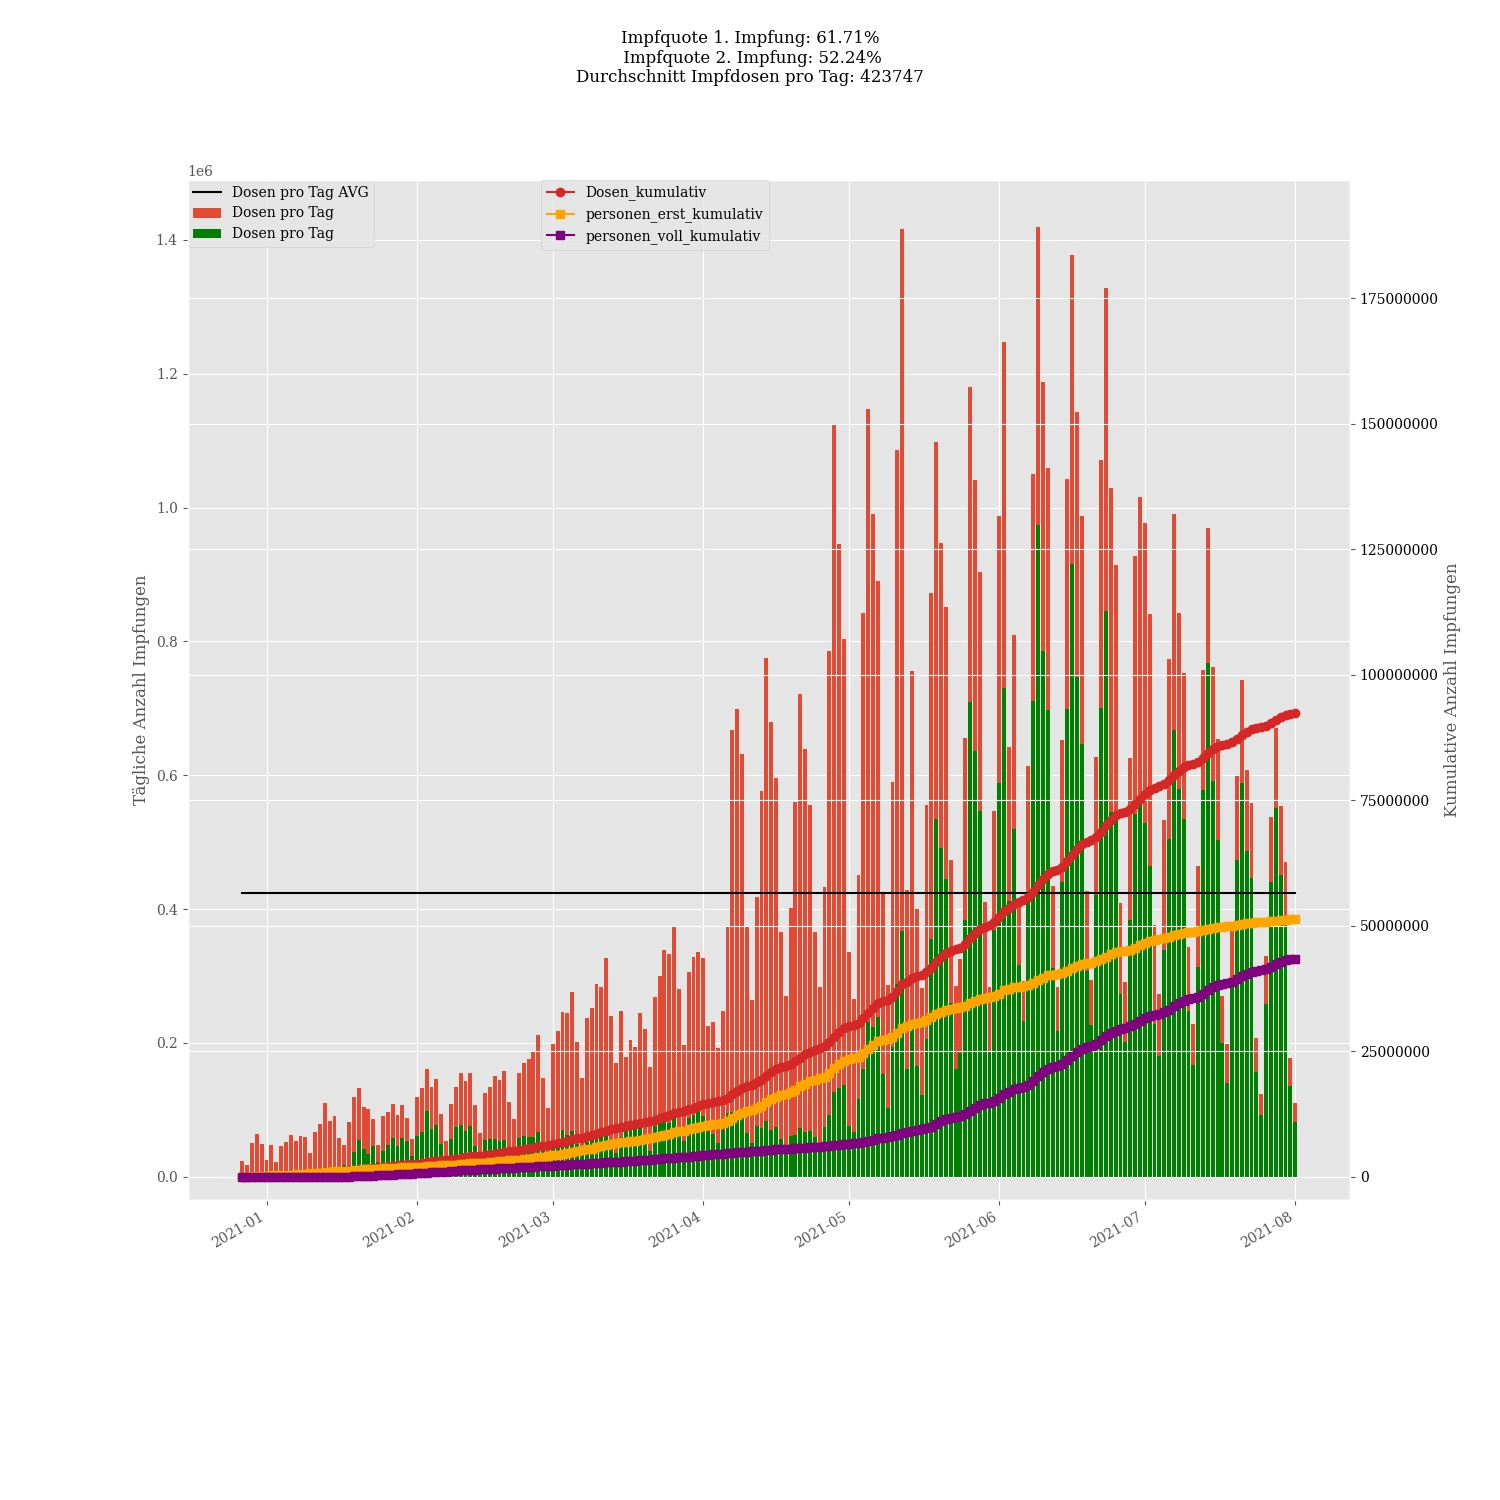
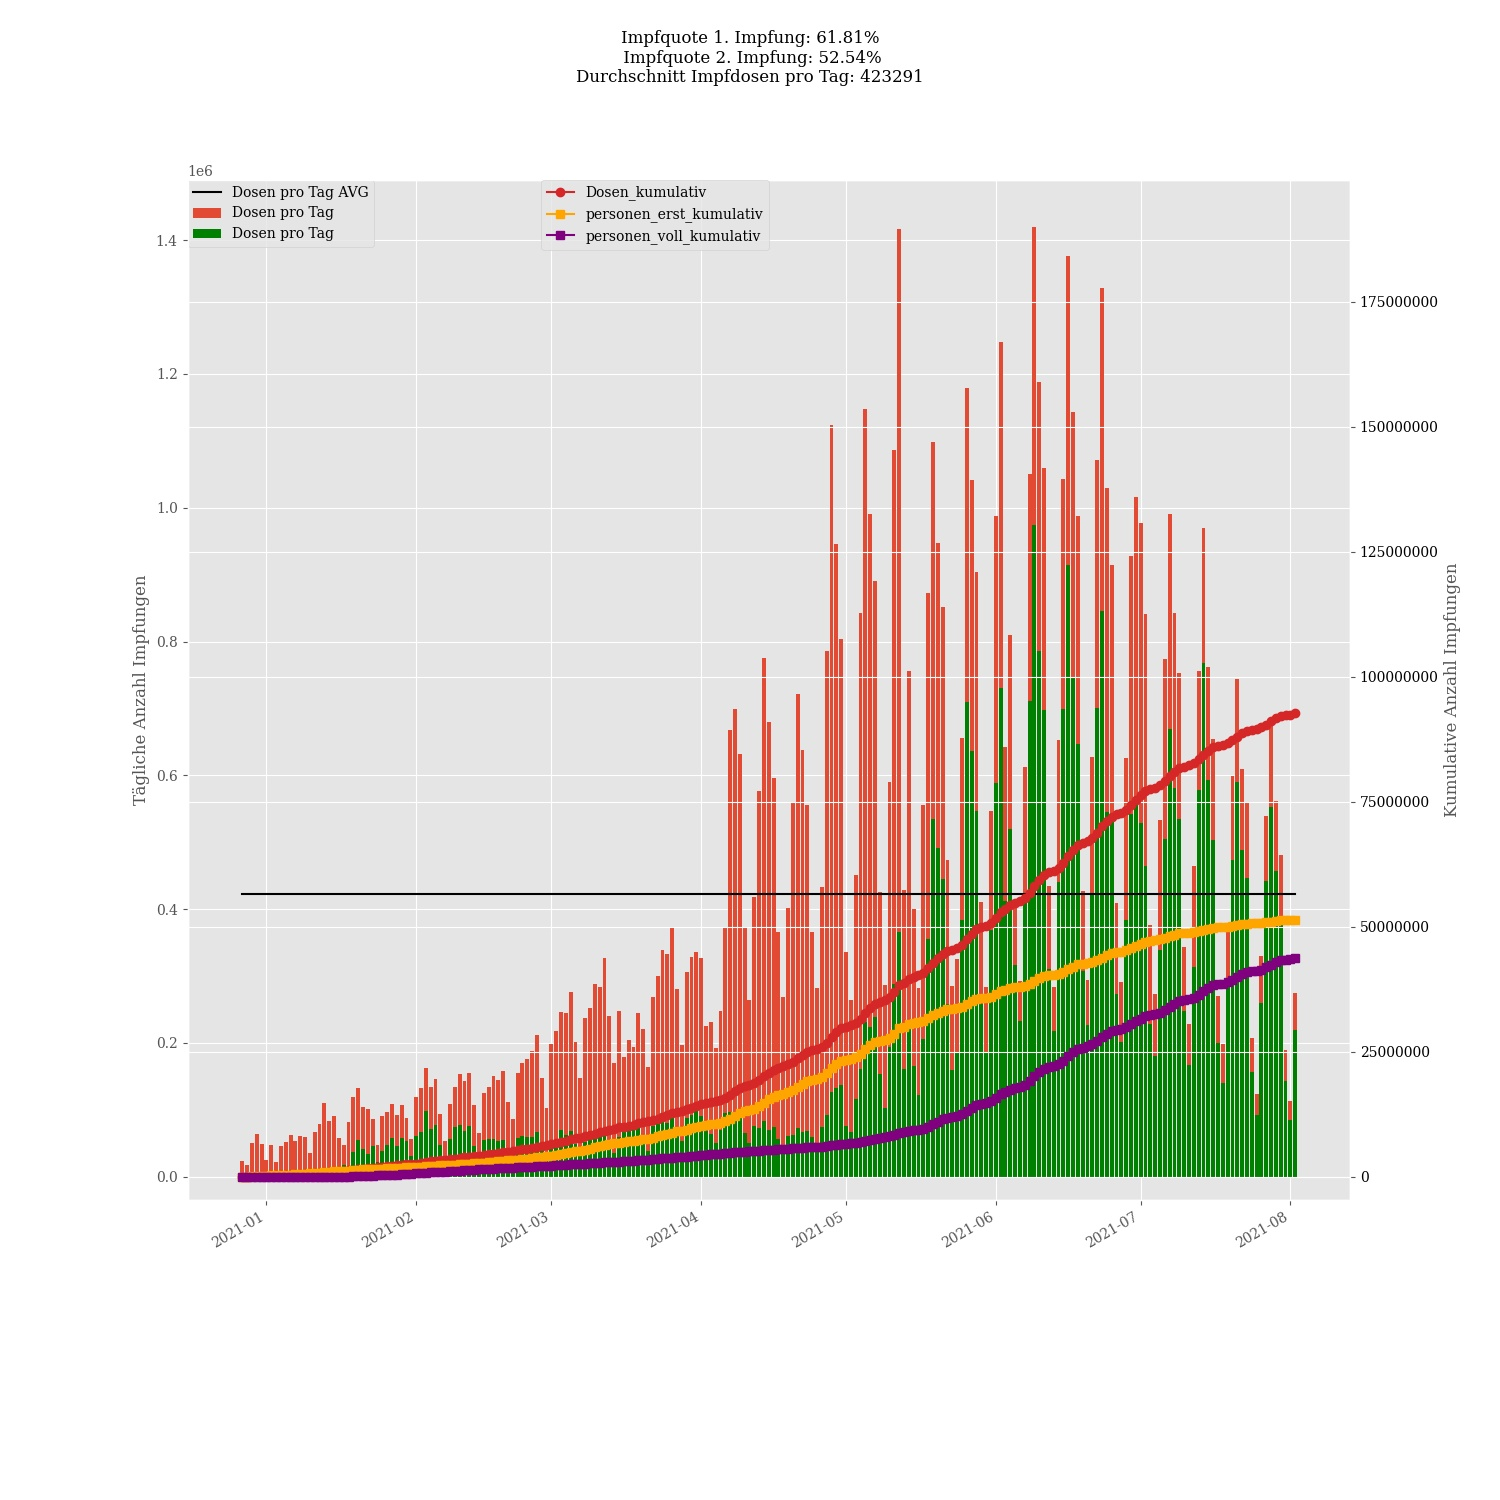
Crontab commit

diff --git a/Readme.md b/Readme.md
@@ -1,19 +1,19 @@
-# Corona vaccine Germany - Stand 2021-08-01
+# Corona vaccine Germany - Stand 2021-08-02
 ## Dashboard by [Simon Hamacher](https://www.shamacher.eu)
 ## Impfstoffe Übersicht
 **Impfstoffhersteller** | **verimpfte Dosen**
 -------- | :--------:
-Biontech | 68962481
-Moderna | 8506260
-Astrazeneca | 12491937
+Biontech | 69222608
+Moderna | 8544833
+Astrazeneca | 12501747
 
 
 ## Quoten
-**Total Verimpfte Dosen:** | |89960678&nbsp;
+**Total Verimpfte Dosen:** | |90269188&nbsp;
 -------- | :--------:| :--------:
-**Erst-Impfquote** | **61.71** %| **51338211** Personen
-**Voll-Impfquote** | **52.24** %| **43454685** Personen
-**Imfungen Durchschnitt** | |**423746.73** pro Tag 
+**Erst-Impfquote** | **61.81** %| **51423707** Personen
+**Voll-Impfquote** | **52.54** %| **43708441** Personen
+**Imfungen Durchschnitt** | |**423290.72** pro Tag 
 ## Bundesländer
 **Bundesland** | **Prozent von gelieferten Imfdosen verimpft**
 -------- | :--------:
